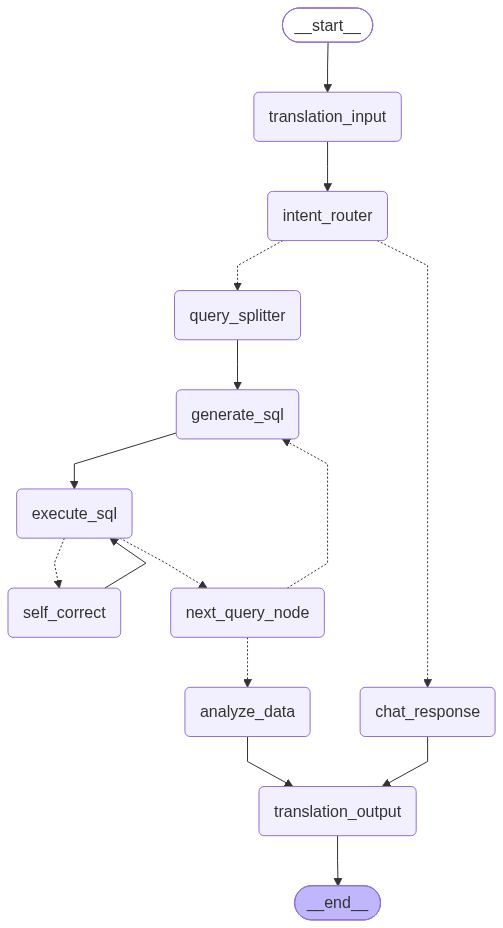
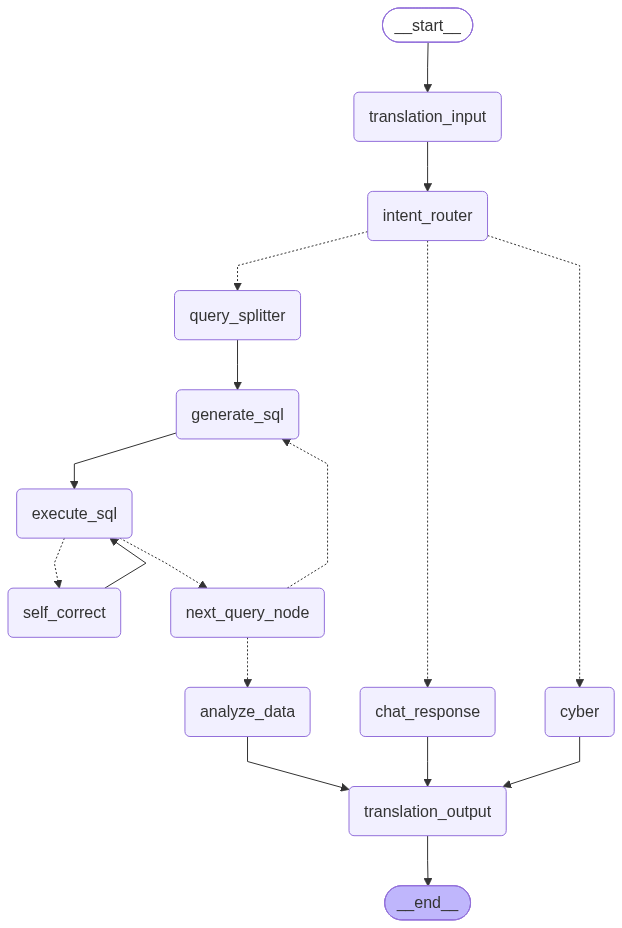
feat: wire cyber_node into LangGraph state graph and update diagram

diff --git a/backend/app/agent.py b/backend/app/agent.py
@@ -169,9 +169,9 @@ async def intent_router_node(state: State) -> State:
 async def cyber_node(state: State) -> State:
     logger.info("Node [cyber_node]: Processing IP threat analysis.")
     # Extract IP using regex
-    ip_match = re.search(r'(?:[0-9]{1,3}\.){3}[0-9]{1,3}', state["translated_query"])
+    ip_match = re.search(r'\b(?:[0-9]{1,3}\.){3}[0-9]{1,3}\b', state["translated_query"])
     if ip_match:
-        ip = ip_match.group(0)
+        ip = ip_match.group(0).strip()
         # Call the tool directly
         result = analyze_threat_ip.invoke({"ip_address": ip})
     else:
@@ -179,7 +179,13 @@ async def cyber_node(state: State) -> State:
         
     return {
         **state,
-        "analytical_summary": result
+        "analytical_summary": result,
+        "all_sql_results": [[]],
+        "all_generated_sql": ["CYBER_INTEL"],
+        "all_pagination": [{"has_more": False}],
+        "sql_results": [],
+        "generated_sql": "CYBER_INTEL",
+        "sql_error": ""
     }
 
 async def chat_response_node(state: State) -> State:
@@ -635,6 +641,8 @@ async def translation_output_node(state: State) -> State:
 def route_intent(state: State) -> str:
     if state.get("intent") == "CHAT":
         return "chat_response"
+    elif state.get("intent") == "CYBER":
+        return "cyber"
     return "query_splitter"
 
 def should_continue(state: State) -> str:
@@ -661,6 +669,7 @@ workflow = StateGraph(State)
 workflow.add_node("translation_input", translation_input_node)
 workflow.add_node("intent_router", intent_router_node)
 workflow.add_node("chat_response", chat_response_node)
+workflow.add_node("cyber", cyber_node)
 workflow.add_node("query_splitter", query_splitter_node)
 workflow.add_node("generate_sql", generate_sql_node)
 workflow.add_node("execute_sql", execute_sql_node)
@@ -671,8 +680,9 @@ workflow.add_node("translation_output", translation_output_node)
 
 workflow.add_edge(START, "translation_input")
 workflow.add_edge("translation_input", "intent_router")
-workflow.add_conditional_edges("intent_router", route_intent, {"chat_response": "chat_response", "query_splitter": "query_splitter"})
+workflow.add_conditional_edges("intent_router", route_intent, {"chat_response": "chat_response", "cyber": "cyber", "query_splitter": "query_splitter"})
 workflow.add_edge("chat_response", "translation_output")
+workflow.add_edge("cyber", "translation_output")
 
 workflow.add_edge("query_splitter", "generate_sql")
 workflow.add_edge("generate_sql", "execute_sql")
